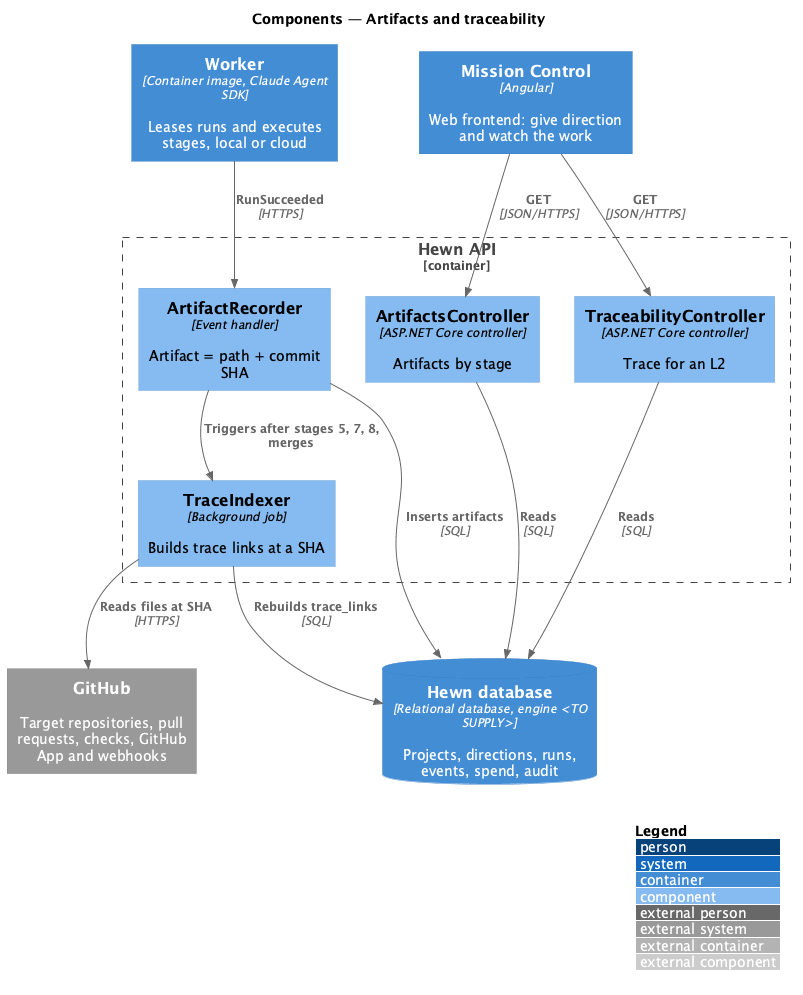
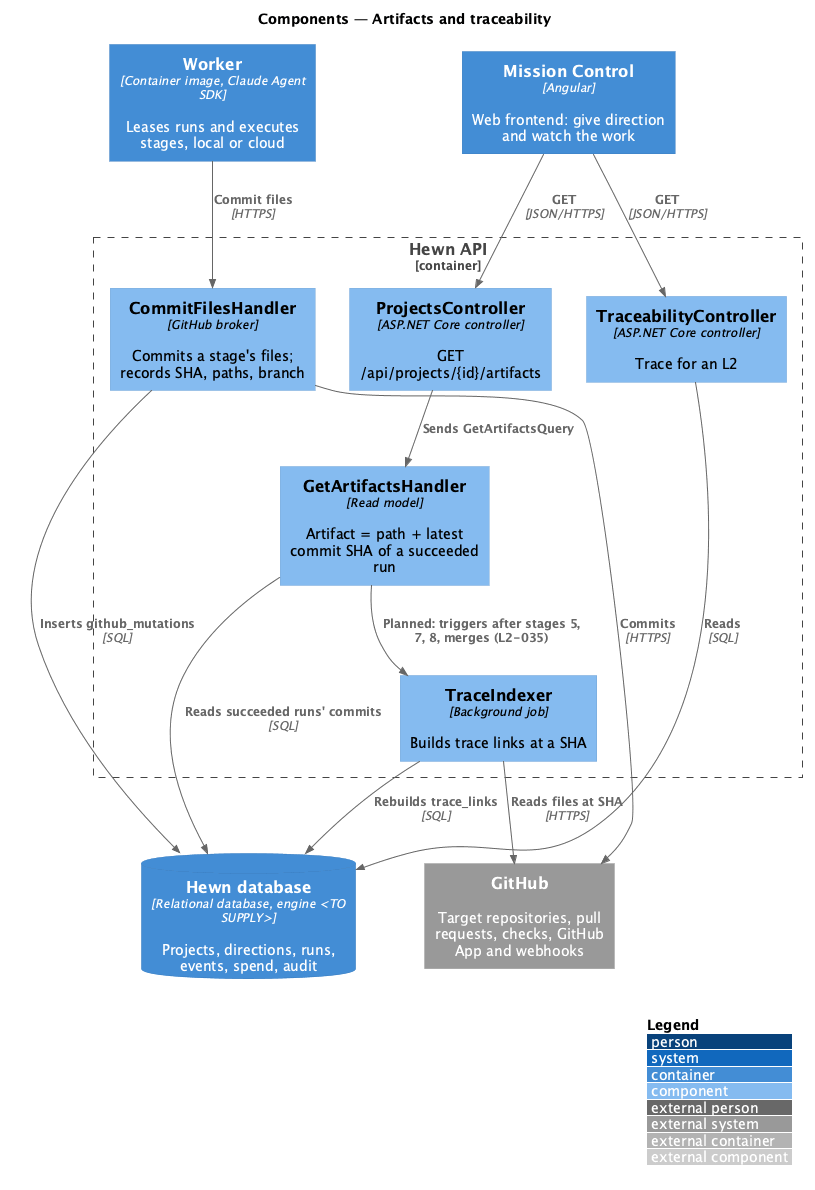
Document versioned artifacts in the design and changelog
The artifacts design now describes what was built: no separate
recorder, artifacts derived from the broker's commit records, with
folding, branch and decision-log rules, and a new view sequence.

Traces to: L2-034

diff --git a/docs/detailed-designs/mission-control/artifacts-and-traceability/README.md b/docs/detailed-designs/mission-control/artifacts-and-traceability/README.md
@@ -16,8 +16,9 @@ Terms used in this design:
 
 The slice is two read models fed by stage events and repository indexing.
 
-- **`ArtifactRecorder`** — on `RunSucceeded`, records each output path of the stage with the run's commit SHA and time, and emits `ArtifactRecorded`.
-- **`ArtifactsPage (Angular)`** — groups artifacts by stage, newest stage first; each row links to `https://github.com/{repo}/blob/{sha}/{path}`.
+- **`CommitFilesHandler`** — the GitHub broker that commits a stage's files. It records each commit's SHA, paths and branch in `github_mutations` against the run. No separate artifacts table is kept: once the run succeeds, that commit is the version of the files it holds (L2-034 AC1).
+- **`GetArtifactsHandler`** — `GET /api/projects/{id}/artifacts` reads the commits that succeeded runs made to the default branch and returns each stage's artifacts, newest stage first. Each path's version is the latest such commit. A failed run's commits are ignored, so a retry's commit becomes the version. Commits to `hewn/scaffold` or `feature/*` branches are not listed. The decision log every stage appends to (`docs/decisions.md`) has its own tab, so it is left out. Files in a subfolder of the stage's output folder (`CommitPolicy`) fold into that subfolder, such as `docs/mocks/statements/`, and link as a tree.
+- **`ArtifactsComponent (Angular)`** — `hw-artifacts` on the Artifacts tab (`/projects/{id}/artifacts`). It groups artifacts by stage, newest stage first, and each row shows the path, short SHA and time, and links to `https://github.com/{repo}/blob/{sha}/{path}` (`tree` for a folder). It reads the artifacts again on each `StageChanged` event and has loading, empty and error states.
 - **`TraceIndexer`** — after stages 5, 7, 8 and each increment merge, parses `docs/specs/`, `docs/detailed-designs/*/README.md`, `docs/journeys.md`, test file headers and merged PR titles at the new SHA, and rebuilds the `trace_links` table for the project.
 - **`TraceabilityController`** — `GET /api/projects/{id}/trace?l2=` returns the L2 list and the trace for one ID, including `Deferred` and `NoAcceptanceTest` flags.
 - **`TraceabilityPage (Angular)`** — searchable L2 list with markers for no test and Deferred, and the trace panel with five groups.
@@ -41,7 +42,7 @@ Users read artifacts and traces in Hewn; Hewn reads the underlying files from Gi
 
 ### Containers
 
-Workers report each success with its commit SHA; the Hewn API records artifacts and indexes traces at that SHA.
+Workers commit through the Hewn API's GitHub broker, which records each commit's SHA. The Hewn API derives artifacts from those records and will index traces at that SHA.
 
 ![C4 container view for artifacts and traceability](diagrams/c4-container.png)
 
@@ -59,9 +60,15 @@ A `Requirement` has `TraceLink`s of five kinds. `NoAcceptanceTest` is true when 
 
 ### Behaviour — record artifacts and index traces
 
-The artifact version is the run's commit SHA (L2-034 AC1). Traces are rebuilt at that SHA.
+The artifact version is the commit SHA the broker recorded for a run that succeeded (L2-034 AC1). Traces will be rebuilt at that SHA (L2-035).
 
 ![Sequence diagram: record artifacts and index traces](diagrams/sequence-record-and-index.png)
+
+### Behaviour — view artifacts
+
+The handler keeps only succeeded runs' commits to the default branch, folds subfolders and takes the latest commit per path (L2-034 AC2).
+
+![Sequence diagram: view artifacts](diagrams/sequence-view-artifacts.png)
 
 ### Behaviour — view artifacts and a trace
 

diff --git a/CHANGELOG.md b/CHANGELOG.md
@@ -14,6 +14,10 @@ and this project adheres to [Semantic Versioning](https://semver.org/spec/v2.0.0
 
 ### Added
 
+- Inspect versioned artifacts (journey 16, L2-034): a project's Artifacts tab (`/projects/{id}/artifacts`) lists each
+  stage's artifacts, newest stage first, with path, version (short commit SHA), time and a link that opens the file
+  (or folder) on GitHub at that commit. `GET /api/projects/{id}/artifacts` derives them from the commits succeeded
+  runs made to the default branch; commit records now keep their branch. The tab refreshes when a stage changes.
 - Browse the design system (journey 15, L2-012 AC4): a project's Design system tab (`/projects/{id}/design-system`)
   lists the token pages under `docs/design-system/foundations/`, each with its group's token count, and the component
   pages under `components/`. The chosen page opens in the same sandboxed, separate-origin preview as Designs, at XS to
